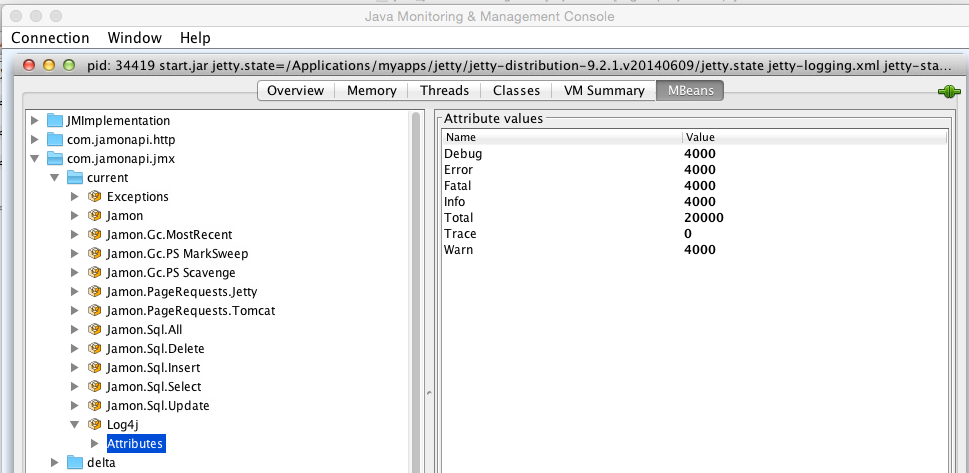
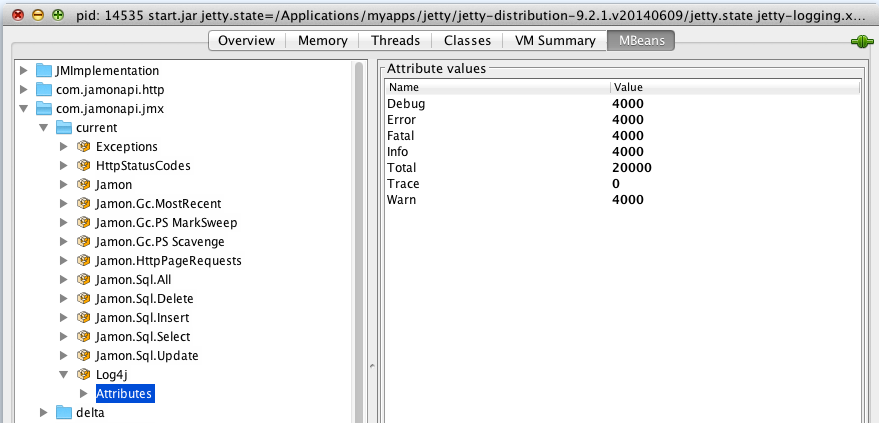
httpStatus XX - updated documentation to reflect this new capability

Changed region(s): [[0.0, 0.0, 1.0, 1.0]]

diff --git a/src/JAMonUsersGuide/jmx_jamon.html b/src/JAMonUsersGuide/jmx_jamon.html
@@ -23,6 +23,7 @@
     <ul id="menu">
         <li><a href="#log4j">Log4j</a></li>
         <li><a href="#pagerequests">HTTP Page Requests</a></li>
+        <li><a href="#httpstatuscodes">HTTP Status Code Summary</a></li>
         <li><a href="#sql">SQL</a></li>
         <li><a href="#exceptions">Exceptions</a></li>
         <li><a href="#gc">Garbage Collection info (For Oracle JVM's)</a></li>
@@ -46,6 +47,7 @@
             <ol>
                 <li><a href="#log4j">Log4j</a> - Counts for for Log4j log levels: TRACE, DEBUG, WARNING, INFO, ERROR, FATAL,...</li>
                 <li><a href="#pagerequests">HTTP Page Requests</a> - Metrics for page hits in a web application.  Metrics include count, average time, total time, max time, min time and more.</li>
+                <li><a href="#httpstatuscodes">HTTP Status Code Summary</a> - A count of http status codes in the general categories 1xx, 2xx, 3xx, 4xx, 5xx.</li>
                 <li><a href="#sql">SQL</a> - Metrics for SQL statements including select, insert, delete, update and more.  Metrics include count, average time, total time, max time, min time and more.</li>
                 <li><a href="#exceptions">Exceptions</a> - A count of exceptions thrown by the application.  You can also view the most recent stack trace.</li>
                 <li><a href="#gc">Garbage Collection info (For Oracle JVM's)</a> -  Metrics for the garbage collector are automatically stored in JAMon.  This allows developers to look at details of the
@@ -78,7 +80,13 @@
 
     <p><img src="jamon_jmx_pagerequests.png" border="1"></p>
 
-<h2><a name="sql">3. SQL</a></h2>
+<h2><a name="httpstatuscodes">3. HTTP Status Code Summary</a></h2>
+
+        <p> The example below shows how the frequency of returned <a href="http://en.wikipedia.org/wiki/List_of_HTTP_status_codes">http status codes</a> from the web server.</p>
+        </p>
+        <p><img src="jamon_jmx_httpstatuscodes.png" border="1"></p>
+
+<h2><a name="sql">4. SQL</a></h2>
 
 <p> This section represents any SQL commands executed by the application.
 <ul>
@@ -91,7 +99,7 @@
 </p>
     <p><img src="jamon_jmx_sql.png" border="1"></p>
 
-<h2><a name="exceptions">4. Exceptions</a></h2>
+<h2><a name="exceptions">5. Exceptions</a></h2>
 <p> This section represents any Exceptions thrown by the application.
 <ul>
     <li>To enable this capability one of the JAMon capbilities that tracks exceptions must be enabled.  This includes SQL, HTTP Page Request, interface monitoring, or Sring AOP monitoring.</li>
@@ -105,7 +113,7 @@
 </ul>
     <p><img src="jamon_jmx_exceptions.png" border="1"></p>
 
-<h2><a name="gc">5. Garbage Collection info</a></h2>
+<h2><a name="gc">6. Garbage Collection info</a></h2>
 <p> This section represents information associated with garbage collection invocations.
 <ul>
     <li>This capability only works for the Oracle JVM</li>
@@ -146,7 +154,7 @@ below.</p>
 
 <p><img src="jamon_jmx_gc_mem.png" border="1"></p>
 
-<h2><a name="custommetrics">6. JAMon Custom Metrics</a></h2>
+<h2><a name="custommetrics">7. JAMon Custom Metrics</a></h2>
 
 <p>Developers can use JAMon's custom JMX metrics capabilities to add any JAMon monitor to JMX. In fact that is exactly how the JMX entries we have discussed that start with 'Jamon.' were added.
     For example <a href="#pagerequests">'Jamon.PageRequests.Jetty'</a> was added this way.  To add your own custom JMX monitors simply add them to the
@@ -161,12 +169,12 @@ JMX metrics discussed above to still appear they must also be in the jamonapi.pr
 <p><img src="jamon_jmx_custommetrics.png" border="1"></p>
 
 
-<h2><a name="managing">7. Managing JAMon</a></h2>
+<h2><a name="managing">8. Managing JAMon</a></h2>
 <p>The 'Jamon' JMX bean allows developers to enable/disable JAMon, view the JAMon version and reset JAMon data via the 'reset' Operation.</p>
 
     <p><img src="jamon_jmx_managing.png" border="1"></p>
 
-<h2><a name="deltas">8. Deltas</a></h2>
+<h2><a name="deltas">9. Deltas</a></h2>
 <p>Normally JAMon numbers continually grow.  The 'Delta' capability allows a developer to determine how much the JAMon metrics have changed since the
 last time they were checked.  All 'Delta' JMX beans reside within the 'deltas' jmx directory structure as seen below.
 </p>

diff --git a/src/JAMonUsersGuide/http_monitoring.html b/src/JAMonUsersGuide/http_monitoring.html
@@ -142,11 +142,14 @@
  <li><b>com.jamonapi.http.JAMonTomcatValve.response.getStatus().value: 200, httpStatus </b>- Number of resources that return a particular http status code.  In this example the http status code 
  is 200.
  </li>
+  <li><b>com.jamonapi.http.response.getStatus().summary: 5xx, httpStatus </b>- Number of resources that return the more general http status code categories of 1xx, 2xx, 3xx, 4xx, 5xx.
+      In this example the http status code is 5xx.
+  </li>
  <li><b>com.jamonapi.http.JAMonTomcatValve.ServletException</b> - Number of servlet exceptions thrown by the container. (Not in the report below)
  </li>
  </ul>
  
- <p><img width="100%" src="jamon_httpmon.jpg" border="1"> </p>
+ <p><img width="100%" src="jamon_httpmon.png" border="1"> </p>
 
  <p>Any JAMon buffer listener can be attached to any JAMon monitor.  This allows you to not only look at the aggregate stats above, but look at interesting details such
  as the details of when the slowest page was executed, or the ServletException stack trace, or the most recent N page requests.  See other parts of the JAMon documenation to
